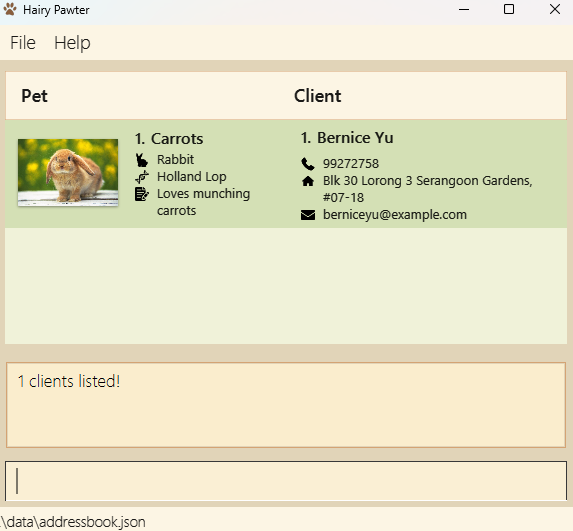
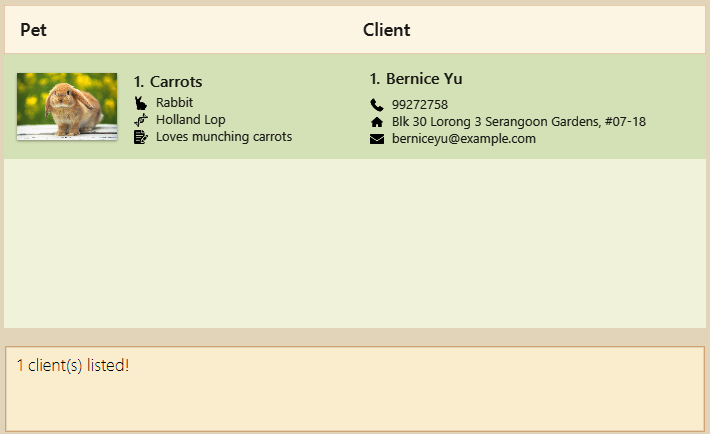
Resize UG images

diff --git a/docs/UserGuide.md b/docs/UserGuide.md
@@ -70,13 +70,13 @@ You can ignore any other text output in the terminal while the app is running. N
 
 The below sample data will be populated on startup.
 
-<img src="images/Ui-sample-data.png" class="app-screenshot" alt="sample data">
+<img src="images/Ui-sample-data.png" class="app-screenshot" alt="sample data" style="height:550px;">
 
 </box>
 
 ### App layout
 
-<img src="images/Ui-labelled.png" class="app-screenshot" alt="Hairy Pawter interface" style="height:500px;">
+<img src="images/Ui-labelled.png" class="app-screenshot" alt="Hairy Pawter interface" style="height:550px;">
 
 When Hairy Pawter opens, you will see the following areas:
 
@@ -268,7 +268,7 @@ New pet added: Doggy; Notes: Great sense of smell; Picture: doggy.jpg
 ```
 
 Screenshot:
-<img src="images/Ui-addpet-with-photo-result.png" class="app-screenshot" alt="addpet with photo result">
+<img src="images/Ui-addpet-with-photo-result.png" class="app-screenshot" alt="addpet with photo result" style="height:550px;">
 
 <br><br>
 
@@ -333,7 +333,7 @@ Edited Pet: Gunner; Species: Dog; Breed: Wire Fox Terrier (White); Notes: Nervou
 ```
 
 Screenshot:
-<img src="images/Ui-editpet-result.png" class="app-screenshot" alt="editpet result">
+<img src="images/Ui-editpet-result.png" class="app-screenshot" alt="editpet result" style="height:550px;">
 
 <box type="info" seamless>
 
@@ -360,7 +360,7 @@ Examples:
 * `find Yu cat` — shows clients where both `Yu` and `cat` appear anywhere across the client's or their pets' details.
 
 **Expected output:**
-<img src="images/find.png" class="app-screenshot" alt="find command result" style="height:450px;">
+<img src="images/find.png" class="app-screenshot" alt="find command result" style="height:550px;">
 ```
 0 client(s) listed!
 ```
@@ -413,7 +413,7 @@ Deleted Client: Betsy Crower; Phone: 1234567; Email: betsycrowe@example.com; Add
 ```
 
 Screenshot:
-<img src="images/Ui-deleteclient-result.png" class="app-screenshot" alt="deleteclient result">
+<img src="images/Ui-deleteclient-result.png" class="app-screenshot" alt="deleteclient result" style="height:550px;">
 
 **Note:**
 * After using `deleteClient` on a filtered list (after the `find` command), remember to run the `list` command again to view all clients and pets.
@@ -448,7 +448,7 @@ Deleted Pet: Gunner; Species: Dog; Breed: Wire Fox Terrier (White); Notes: Nervo
 ```
 
 Screenshot:
-<img src="images/Ui-deletepet-result.png" class="app-screenshot" alt="deletepet result">
+<img src="images/Ui-deletepet-result.png" class="app-screenshot" alt="deletepet result" style="height:550px;">
 
 **Note:**
 * After using `deletePet` on a filtered list (after the `find` command), remember to run the `list` command again to view all clients and pets.
